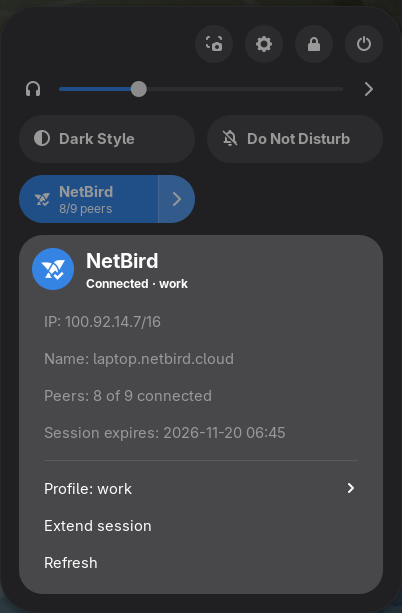
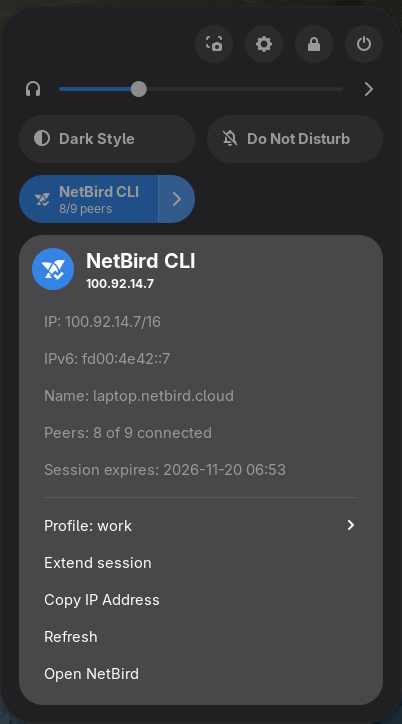
feat: copy IP, IPv6, open window, session-expired notice

diff --git a/extension.js b/extension.js
@@ -5,6 +5,7 @@
 import GObject from 'gi://GObject';
 import GLib from 'gi://GLib';
 import Gio from 'gi://Gio';
+import St from 'gi://St';
 
 import {Extension} from 'resource:///org/gnome/shell/extensions/extension.js';
 import * as Main from 'resource:///org/gnome/shell/ui/main.js';
@@ -13,7 +14,7 @@ import * as PopupMenu from 'resource:///org/gnome/shell/ui/popupMenu.js';
 import * as QuickSettings from 'resource:///org/gnome/shell/ui/quickSettings.js';
 
 import {NetbirdCli, Status} from './netbird/cli.js';
-import {errorText, formatLocal, secondsUntil} from './netbird/parse.js';
+import {errorText, formatLocal, hostAddress, secondsUntil} from './netbird/parse.js';
 import {StatusIcons} from './shell/icons.js';
 
 const STATUS_LABELS = {
@@ -40,9 +41,9 @@ function isCancelled(e) {
 
 const NetbirdToggle = GObject.registerClass(
 class NetbirdToggle extends QuickSettings.QuickMenuToggle {
-    _init(settings, cli, statusIcons) {
+    _init(settings, cli, statusIcons, extension) {
         super._init({
-            title: 'NetBird',
+            title: 'NetBird CLI',
             gicon: statusIcons.forState('Idle'),
             toggleMode: false,
         });
@@ -50,6 +51,7 @@ class NetbirdToggle extends QuickSettings.QuickMenuToggle {
         this._settings = settings;
         this._cli = cli;
         this._statusIcons = statusIcons;
+        this._extension = extension;
         this._status = Status.UNAVAILABLE;
         this._data = null;
         this._lastError = null;
@@ -58,6 +60,7 @@ class NetbirdToggle extends QuickSettings.QuickMenuToggle {
         this._lifeCancellable = new Gio.Cancellable();
         this._refreshing = false;
         this._warnedExpiry = null;
+        this._lastConnected = false;
         this._notificationSource = null;
 
         this._buildMenu();
@@ -66,12 +69,12 @@ class NetbirdToggle extends QuickSettings.QuickMenuToggle {
     }
 
     _buildMenu() {
-        this.menu.setHeader(this._statusIcons.forState('Idle'), 'NetBird', '');
+        this.menu.setHeader(this._statusIcons.forState('Idle'), 'NetBird CLI', '');
 
         this._infoSection = new PopupMenu.PopupMenuSection();
         this.menu.addMenuItem(this._infoSection);
         this._infoItems = {};
-        for (const key of ['ip', 'fqdn', 'peers', 'expiry', 'error']) {
+        for (const key of ['ip', 'ipv6', 'fqdn', 'peers', 'expiry', 'error']) {
             const item = new PopupMenu.PopupMenuItem('', {reactive: false});
             item.visible = false;
             this._infoItems[key] = item;
@@ -89,7 +92,18 @@ class NetbirdToggle extends QuickSettings.QuickMenuToggle {
         });
 
         this._extendItem = this.menu.addAction('Extend session', () => this._runAction('extend'));
+        this._copyIpItem = this.menu.addAction('Copy IP Address', () => {
+            St.Clipboard.get_default().set_text(
+                St.ClipboardType.CLIPBOARD, this._ipAddress);
+            this.menu.close();
+        });
+        this._copyIpItem.visible = false;
         this.menu.addAction('Refresh', () => this.refresh());
+        this._openItem = this.menu.addAction('Open NetBird', () => {
+            Main.panel.closeQuickSettings();
+            this._extension.openPreferences();
+        });
+        this._openItem.visible = Main.sessionMode.allowSettings;
     }
 
     get isConnected() {
@@ -109,6 +123,7 @@ class NetbirdToggle extends QuickSettings.QuickMenuToggle {
             this._lastError = error;
             this._sync();
             this._checkExpiry();
+            this._checkSessionExpiry();
         } catch (e) {
             if (!isCancelled(e))
                 logError(e, 'NetBird: status refresh failed');
@@ -140,22 +155,26 @@ class NetbirdToggle extends QuickSettings.QuickMenuToggle {
             subtitle,
         });
 
-        const profile = data?.profileName;
-        this.menu.setHeader(gicon, 'NetBird', profile ? `${statusLabel} · ${profile}` : statusLabel);
-
         const connected = this.isConnected;
+        this._ipAddress = connected && data?.netbirdIp ? hostAddress(data.netbirdIp) : '';
+        const headerSubtitle = this._ipAddress || statusLabel;
+        this.menu.setHeader(gicon, 'NetBird CLI', headerSubtitle);
+
         const expiry = connected ? formatLocal(data?.sessionExpiresAt) : null;
         this._setInfo('ip', 'IP', connected ? data?.netbirdIp : null);
+        this._setInfo('ipv6', 'IPv6', connected ? data?.netbirdIpv6 : null);
         this._setInfo('fqdn', 'Name', connected ? data?.fqdn : null);
         this._setInfo('peers', 'Peers',
             connected && data?.peers ? `${data.peers.connected} of ${data.peers.total} connected` : null);
         this._setInfo('expiry', 'Session expires', expiry);
         this._setInfo('error', 'Error', this._status === Status.UNAVAILABLE ? this._lastError : null);
 
+        const profile = data?.profileName;
         this._profileMenu.label.text = profile ? `Profile: ${profile}` : 'Profile';
         this._profileMenu.visible = this._status !== Status.UNAVAILABLE;
         this._extendItem.visible = Boolean(expiry);
         this._extendItem.reactive = !this._pendingAction;
+        this._copyIpItem.visible = Boolean(this._ipAddress);
     }
 
     _setInfo(key, label, value) {
@@ -228,10 +247,26 @@ class NetbirdToggle extends QuickSettings.QuickMenuToggle {
             [['Extend session', () => this._runAction('extend')]]);
     }
 
+    _checkSessionExpiry() {
+        // Track session expiry: notify when the session expires after we saw Connected.
+        if (this._status === Status.CONNECTED) {
+            this._lastConnected = true;
+        } else if ((this._status === Status.SESSION_EXPIRED || this._status === Status.NEEDS_LOGIN) &&
+                   this._lastConnected) {
+            this._lastConnected = false;
+            this._notify(
+                'NetBird Session Expired',
+                'Sign in again to reconnect to your NetBird network.',
+                [['Sign In', () => this._runAction('up')]]);
+        } else if (this._status === Status.UNAVAILABLE) {
+            this._lastConnected = false;
+        }
+    }
+
     _notify(title, body, actions = []) {
         if (!this._notificationSource) {
             this._notificationSource = new MessageTray.Source({
-                title: 'NetBird',
+                title: 'NetBird CLI',
                 icon: this._statusIcons.appIcon,
             });
             this._notificationSource.connectObject('destroy', () => {
@@ -317,7 +352,7 @@ class NetbirdToggle extends QuickSettings.QuickMenuToggle {
 
 const NetbirdIndicator = GObject.registerClass(
 class NetbirdIndicator extends QuickSettings.SystemIndicator {
-    _init(settings, extensionDir) {
+    _init(settings, extensionDir, extension) {
         super._init();
 
         this._settings = settings;
@@ -326,7 +361,7 @@ class NetbirdIndicator extends QuickSettings.SystemIndicator {
         this._icon.gicon = this._statusIcons.forState('Connected');
         this._icon.visible = false;
 
-        this._toggle = new NetbirdToggle(settings, new NetbirdCli(settings), this._statusIcons);
+        this._toggle = new NetbirdToggle(settings, new NetbirdCli(settings), this._statusIcons, extension);
         this._toggle.connectObject(
             'notify::checked', () => this._syncIcon(),
             'notify::gicon', () => this._syncIcon(),
@@ -376,7 +411,7 @@ class NetbirdIndicator extends QuickSettings.SystemIndicator {
 export default class NetbirdExtension extends Extension {
     enable() {
         this._settings = this.getSettings();
-        this._indicator = new NetbirdIndicator(this._settings, this.dir);
+        this._indicator = new NetbirdIndicator(this._settings, this.dir, this);
         Main.panel.statusArea.quickSettings.addExternalIndicator(this._indicator);
     }
 

diff --git a/tests/test-netbird.js b/tests/test-netbird.js
@@ -1,7 +1,7 @@
 // Run with: gjs -m tests/test-netbird.js
 import GLib from 'gi://GLib';
 import System from 'system';
-import {parseProfileList, secondsUntil, formatLocal, errorText} from '../netbird/parse.js';
+import {parseProfileList, secondsUntil, formatLocal, errorText, hostAddress} from '../netbird/parse.js';
 
 let failures = 0;
 function check(name, actual, expected) {
@@ -40,6 +40,9 @@ check('formatLocal shape', /^\d{4}-\d\d-\d\d \d\d:\d\d$/.test(formatLocal(inOneH
 
 check('errorText prefers stderr', errorText({stdout: 'out', stderr: ' err\n'}, 'fb'), 'err');
 check('errorText fallback', errorText({stdout: '', stderr: ''}, 'fb'), 'fb');
+
+check('host of cidr', hostAddress('100.92.14.7/16'), '100.92.14.7');
+check('empty', hostAddress(''), '');
 
 if (failures)
     System.exit(1);

diff --git a/netbird/parse.js b/netbird/parse.js
@@ -85,3 +85,13 @@ export function formatLocal(isoString) {
     const when = GLib.DateTime.new_from_iso8601(isoString, null);
     return when ? when.to_local().format('%Y-%m-%d %H:%M') : null;
 }
+
+/**
+ * Extract host address from a CIDR string (100.92.0.1/16 → 100.92.0.1).
+ *
+ * @param {string} cidr - CIDR notation or plain address
+ * @returns {string} host address without prefix
+ */
+export function hostAddress(cidr) {
+    return cidr.split('/')[0];
+}
